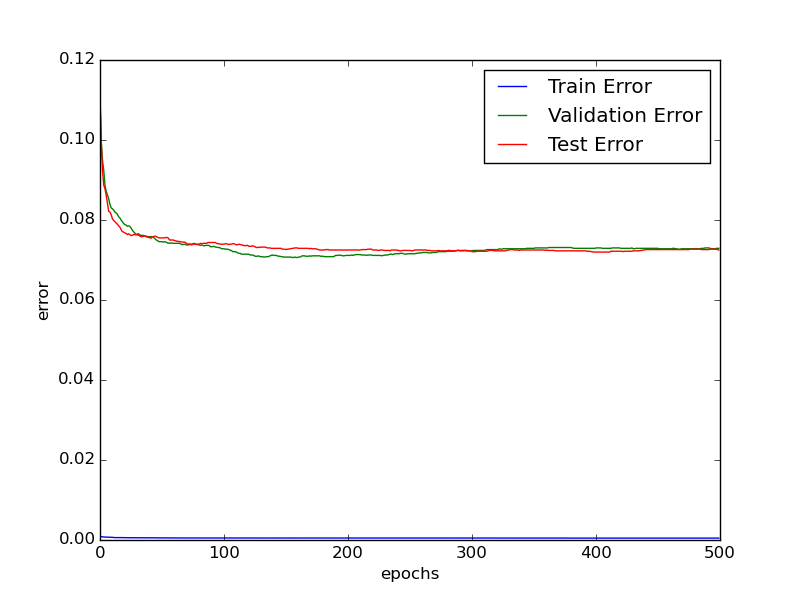
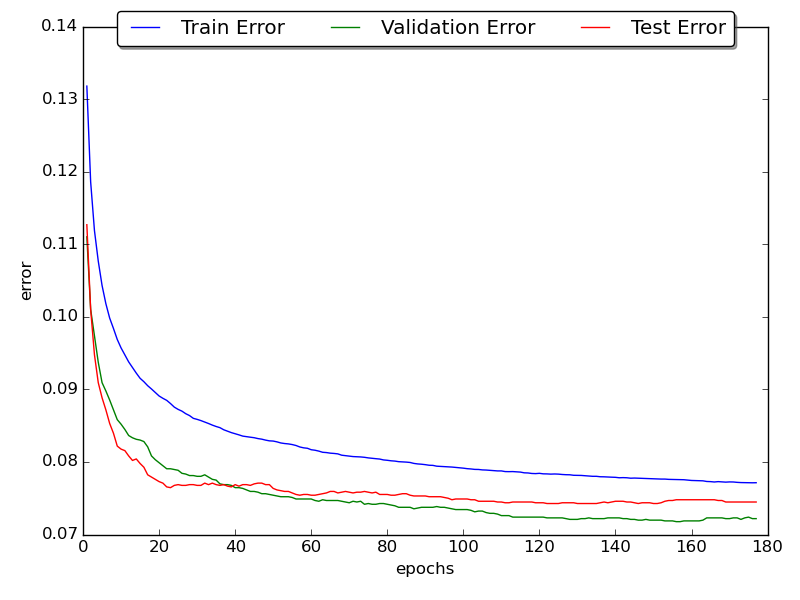
* Solution for Logistic Regression

diff --git a/logreg/logreg.py b/logreg/logreg.py
@@ -1,13 +1,15 @@
+import sys
+import os
+current_dir = os.path.dirname(os.path.realpath(__file__)) + '/'
+sys.path.append(current_dir  + '..')
+
 import theano
 import theano.tensor as tensor
 import numpy
-import gzip
-import pickle
 import climin
 import climin.util
+import utils
 from matplotlib import pyplot
-import scipy.ndimage as srot
-import random
 
 
 # The following functions are in general independent of a specific classifier
@@ -18,48 +20,6 @@ def update_weights(cost_function, weights, learning_rate):
     updates = [(weights, weights - learning_rate * update_gradient)]
     return updates
 
-
-def loadMinstDataSet(filename, augument=False):
-    def shared_dataset(data_xy, augument=False, borrow=True):
-        data_x, data_y = data_xy
-
-        data_x_npy = numpy.asarray(data_x, dtype=theano.config.floatX)
-        data_y_npy = numpy.asarray(data_y, dtype=theano.config.floatX)
-
-        if augument:
-            data_x_npy = numpy.concatenate((data_x_npy, data_x_npy))
-            data_y_npy = numpy.concatenate((data_y_npy, data_y_npy))
-
-            for x in range(data_x_npy.shape[0] / 2):
-                sqrt = numpy.sqrt(data_x_npy.shape[1])
-                rot = random.uniform(5, -5)
-                rotated = numpy.reshape(data_x_npy[x, :], (sqrt, sqrt))
-                rotated = srot.rotate(rotated, rot)
-                rotated = rotated[(rotated.shape[0] - sqrt) / 2: (rotated.shape[0] - sqrt) / 2 + sqrt,
-                          (rotated.shape[1] - sqrt) / 2: (rotated.shape[1] - sqrt) / 2 + sqrt]
-                data_x_npy[x, :] = numpy.reshape(rotated, (sqrt * sqrt,))
-
-        print data_x_npy.shape
-
-        # add required 1 vector for bias
-        # shared_x = theano.shared(numpy.hstack((data_x_npy,
-        #                                       numpy.ones((data_x_npy.shape[0], 1), dtype=tensor.dscalar()))),
-        #                          borrow=borrow)
-        shared_x = theano.shared(data_x_npy, borrow=borrow)
-
-        shared_y = theano.shared(data_y_npy, borrow=borrow)
-
-        return shared_x, tensor.cast(shared_y, 'int32')
-
-    with gzip.open(filename, 'rb') as f:
-        try:
-            train_set, valid_set, test_set = pickle.load(f, encoding='latin1')
-        except:
-            train_set, valid_set, test_set = pickle.load(f)
-
-        return shared_dataset(train_set, augument), shared_dataset(valid_set), shared_dataset(test_set)
-
-
 # Expects the input as dim + 1, where the extra dimension
 # must be filled with 1s to be in the space n + bias -> n + 1
 class LogisticRegression(object):
@@ -69,12 +29,11 @@ class LogisticRegression(object):
             (n_dim, k_classes),
             # (n_dim , k_classes),
             dtype=tensor.dscalar()
-        ), name="weights", borrow=True)
+        ), name="weights")
 
         self.bias = theano.shared(
             value=numpy.zeros((k_classes,), dtype=theano.config.floatX),
-            name='bias',
-            borrow=True)
+            name='bias')
 
         self.n_dim = n_dim
         self.classes = k_classes
@@ -124,7 +83,7 @@ class LogisticRegression(object):
 
     def loss_func(self, params, input, target):
         self.set_params(params)
-        return numpy.concatenate([overall.flatten() for overall in self.loss_overall(input, target)])
+        return self.loss_overall(input, target)
 
 
 def train(data, report_errors):
@@ -142,7 +101,7 @@ def train(data, report_errors):
 
     learning_rate = 0.13
     batch_size = 600
-    epochs = 2
+    epochs = 300
 
     classifier = LogisticRegression(x=x, y=y, n_dim=28 * 28, k_classes=10)
 
@@ -181,9 +140,9 @@ def train(data, report_errors):
     best_loss = numpy.inf
     best_weights = classifier.weights
     best_bias = classifier.bias
-    stop_loop = False
+    stop_count = 0
 
-    while current_epochs < epochs and not stop_loop:
+    while current_epochs < epochs and not stop_count > 20:
         for batch_index in range(0, n_train_batches):
             train_model(batch_index)
 
@@ -202,13 +161,17 @@ def train(data, report_errors):
             current_train_loss = 0
             for batch_index in range(0, n_train_batches):
                 current_train_loss += train_error_model(batch_index)
-                current_train_loss /= n_train_batches
+            current_train_loss /= n_train_batches
             training_error.append(current_train_loss)
 
         if current_validation_loss < best_loss:
             best_loss = current_validation_loss
             best_bias = classifier.bias.get_value()
             best_weights = classifier.weights.get_value()
+            stop_count = 0
+        else:
+            stop_count += 1
+
         print(
             'Current Epoch: %i \t Current Validation Error: %f %%' %
             (
@@ -227,7 +190,7 @@ def train(data, report_errors):
     return classifier, best_loss
 
 
-def train_climin(data, report_errors):
+def train_climin(data, report_errors, algorithm='sgd'):
     train_set, valid_set, test_set = data
     train_set_x, train_set_y = train_set
     valid_set_x, valid_set_y = valid_set
@@ -241,7 +204,7 @@ def train_climin(data, report_errors):
     y = tensor.ivector('y')
 
     batch_size = 600
-    epochs = 30
+    epochs = 300
 
     n_train_batches = train_set_x.get_value().shape[0] // batch_size
     n_valid_batches = valid_set_x.get_value().shape[0] // batch_size
@@ -251,8 +214,14 @@ def train_climin(data, report_errors):
 
     classifier = LogisticRegression(x=x, y=y, n_dim=28 * 28, k_classes=10)
 
-    climin_optimizer = climin.GradientDescent(classifier.get_params(), classifier.loss_grad, step_rate=0.1,
-                                              momentum=.95, args=args)
+    if algorithm == "sgd":
+        print "GradientDescent"
+        name = "errors_sgd.png"
+        climin_optimizer = climin.GradientDescent(classifier.get_params(), classifier.loss_grad, step_rate=0.1, args=args)
+    else :
+        print "AdaDelta"
+        name = "errors_adadelta.png"
+        climin_optimizer = climin.Adadelta(classifier.get_params(), classifier.loss_grad, args=args)
 
     validation_model = theano.function(
         inputs=[index],
@@ -275,11 +244,14 @@ def train_climin(data, report_errors):
     best_loss = numpy.inf
     best_weights = classifier.weights
     best_bias = classifier.bias
-    stop_loop = False
+    stop_count = 0
 
     for info in climin_optimizer:
-        if current_run > epochs * n_train_batches or stop_loop:
+        if current_run > epochs * n_train_batches or stop_count > 20:
             break
+
+        current_run += 1
+
         # check on validation
         if current_run % n_train_batches is 0 and current_run > 0:
             current_validation_loss = 0
@@ -296,7 +268,7 @@ def train_climin(data, report_errors):
                 current_train_loss = 0
                 for batch_index in range(0, n_train_batches):
                     current_train_loss += train_error_model(batch_index)
-                    current_train_loss /= n_train_batches
+                current_train_loss /= n_train_batches
                 training_error.append(current_train_loss)
 
 
@@ -304,6 +276,10 @@ def train_climin(data, report_errors):
                 best_loss = current_validation_loss
                 best_bias = classifier.bias.get_value()
                 best_weights = classifier.weights.get_value()
+                stop_count = 0
+            else:
+                stop_count += 1
+
             print(
                 'Current Epoch: %i \t Current Validation Error: %f %%' %
                 (
@@ -311,13 +287,12 @@ def train_climin(data, report_errors):
                     best_loss * 100.
                 )
             )
-        current_run += 1
 
     classifier.weights = best_weights
     classifier.bias = best_bias
 
     if report_errors:
-        problem_12(training_error, validation_error, test_error)
+        problem_12(training_error, validation_error, test_error, name=name)
 
     return classifier, best_loss
 
@@ -349,8 +324,8 @@ def test(classifier, data):
 
 
 def problem_8():
-    data = loadMinstDataSet("/home/durner/Downloads/mnist.pkl.gz", augument=True)
-    classifier, smallest_validation_loss = train(data, False)
+    data = utils.loadMinstDataSet(current_dir + "../mnist.pkl.gz", augument=True)
+    classifier, smallest_validation_loss = train(data, True)
     print(
         'Test Set Error: %f %%' %
         (
@@ -360,25 +335,21 @@ def problem_8():
     problem_11(classifier.weights)
 
 
-def problem_10():
-    data = loadMinstDataSet("/home/durner/Downloads/mnist.pkl.gz", augument=True)
-    classifier, smallest_validation_loss = train_climin(data, True)
+def problem_10(algorithm='sgd'):
+    data = utils.loadMinstDataSet(current_dir + "../mnist.pkl.gz", augument=True)
+    classifier, smallest_validation_loss = train_climin(data, True, algorithm=algorithm)
     print(
         'Test Set Error: %f %%' %
         (
             test(classifier, data) * 100.
         )
     )
-    problem_11(classifier.weights)
+    name = "repflds_" + algorithm + ".png"
+    problem_11(classifier.weights, name=name)
 
 
-
-def problem_11(weights):
+def problem_11(weights, rows=5, cols=2, height=28, width=28, name="repflds.png"):
     border = 2
-    rows = 5
-    cols = 2
-    height = 28
-    width = 28
 
     image = numpy.zeros((rows * height + border * rows, cols * width + border * cols))
 
@@ -387,24 +358,28 @@ def problem_11(weights):
         start_col = width * (number % cols) + (number % cols + 1) * border
         image[start_row:start_row + height, start_col:start_col + width] = weights[:, number].reshape(height, width)
 
-    pyplot.figure()
+    pyplot.figure(dpi=300)
     pyplot.imshow(image)
     pyplot.axis('off')
-    pyplot.set_cmap('gist_ncar')
+    pyplot.set_cmap('rainbow')
     pyplot.colorbar()
-    pyplot.savefig('repflds.png')
+    pyplot.tight_layout()
+    pyplot.savefig(name, dpi=300)
 
 
-def problem_12(training_error, validation_error, test_error):
+def problem_12(training_error, validation_error, test_error, name="errors.png"):
     pyplot.figure()
-    pyplot.plot(range(len(training_error)), training_error, label="Train Error")
-    pyplot.plot(range(len(validation_error)), validation_error, label="Validation Error")
-    pyplot.plot(range(len(test_error)), test_error, label="Test Error")
+    pyplot.plot(range(1, len(training_error)+1), training_error, label="Train Error")
+    pyplot.plot(range(1, len(validation_error)+1), validation_error, label="Validation Error")
+    pyplot.plot(range(1, len(test_error)+1), test_error, label="Test Error")
     pyplot.xlabel("epochs")
     pyplot.ylabel("error")
-    pyplot.legend(loc='upper center', bbox_to_anchor=(0.5, -0.05),
-                 fancybox=True, shadow=True, ncol=3)
-    pyplot.savefig('errors.png')
+    pyplot.legend(loc='upper center', bbox_to_anchor=(0.5, 1.05),
+                  ncol=3, fancybox=True, shadow=True)
+    pyplot.tight_layout()
+    pyplot.savefig(name)
 
 if __name__ == '__main__':
-    problem_10()
+    problem_8()
+    problem_10("sgd")
+    problem_10("adadelta")
